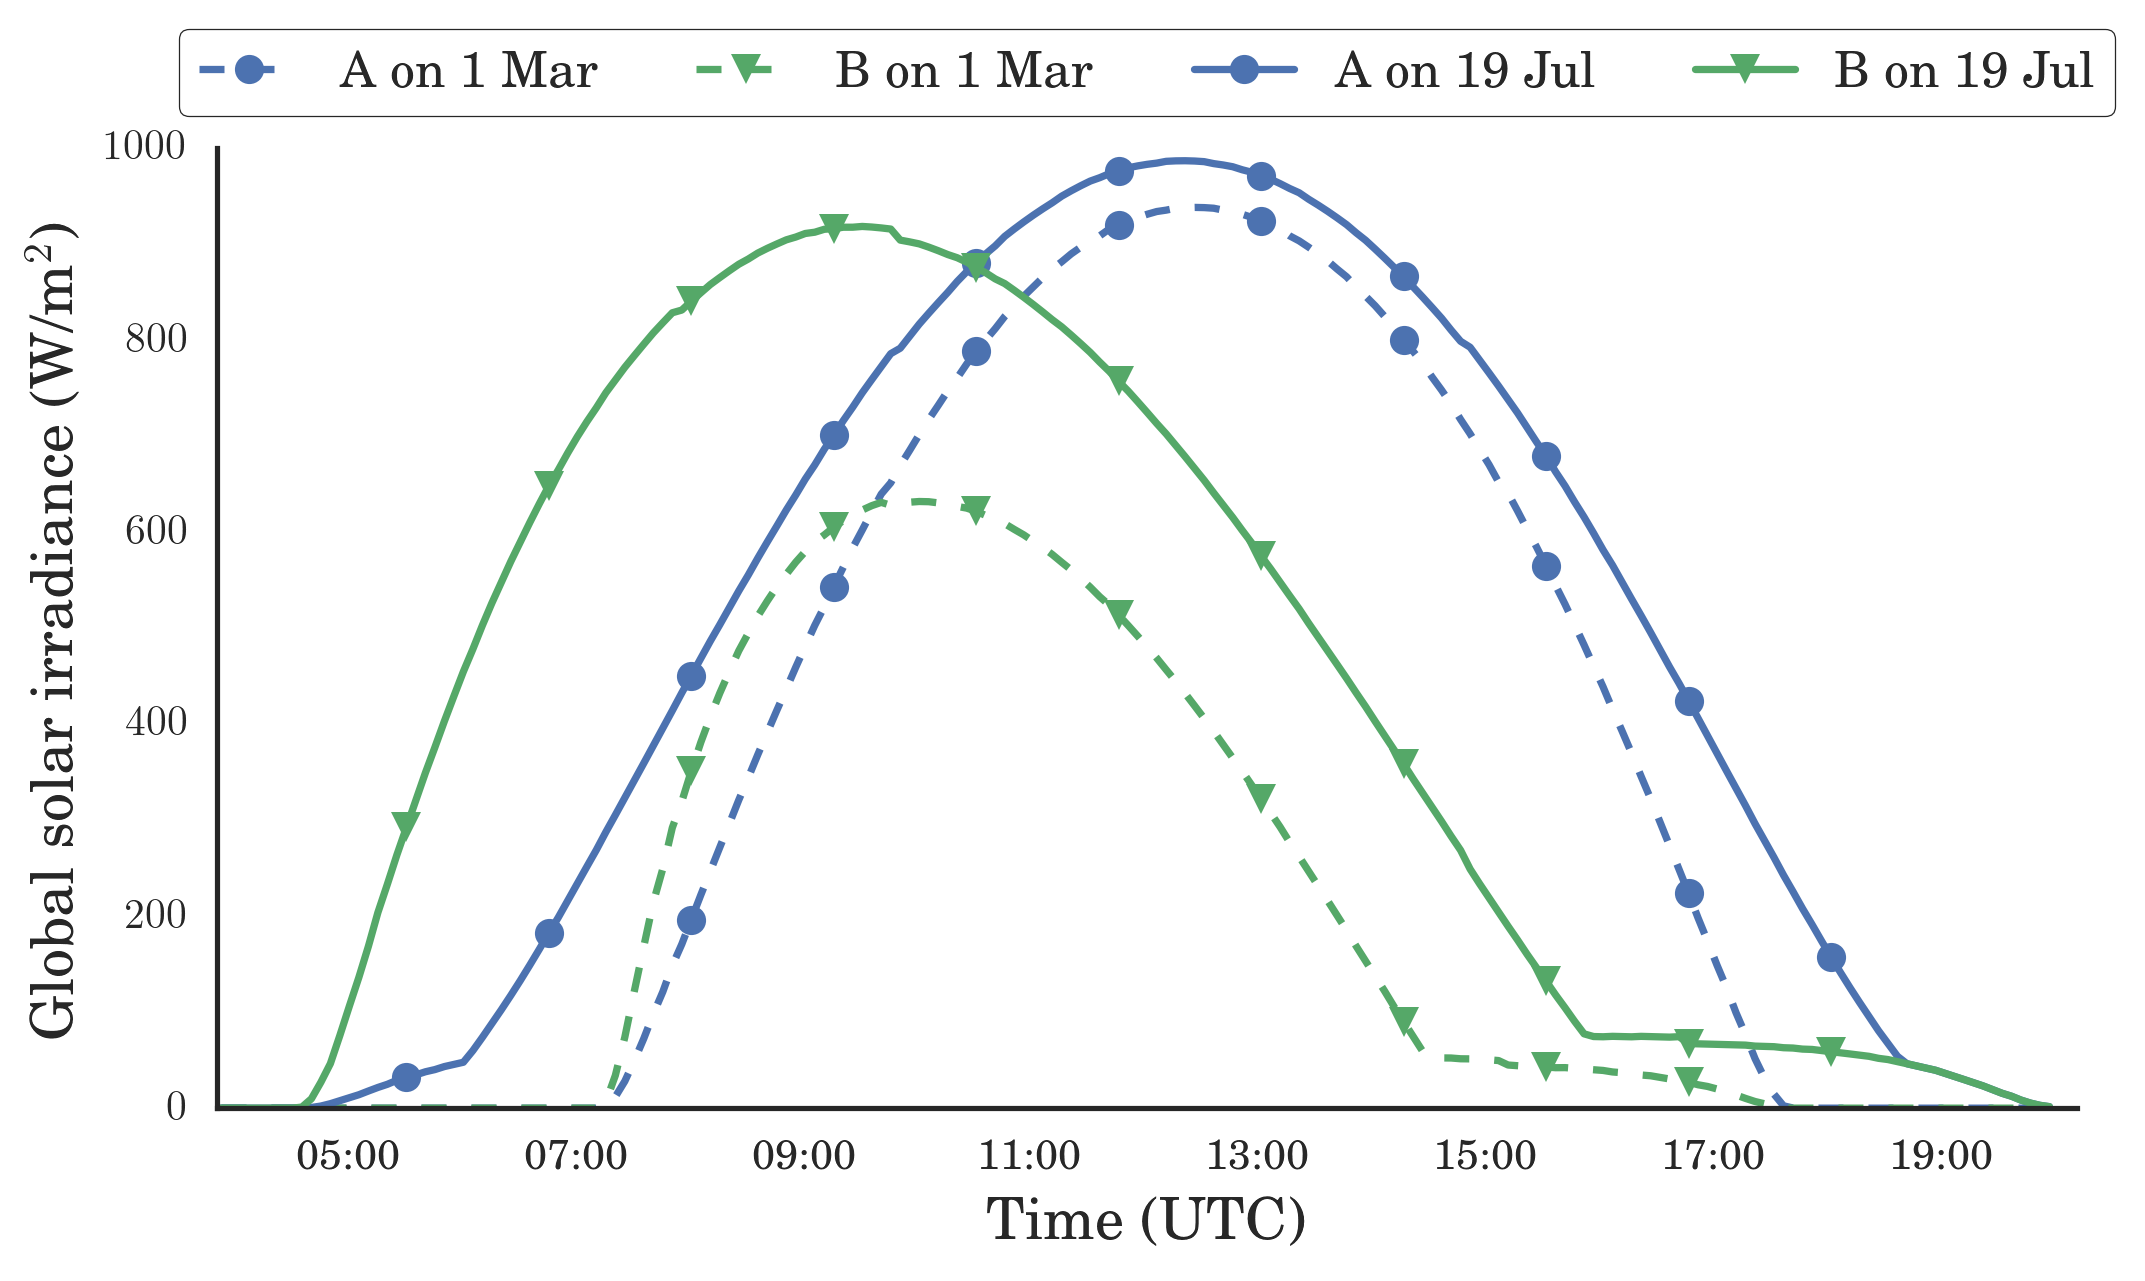
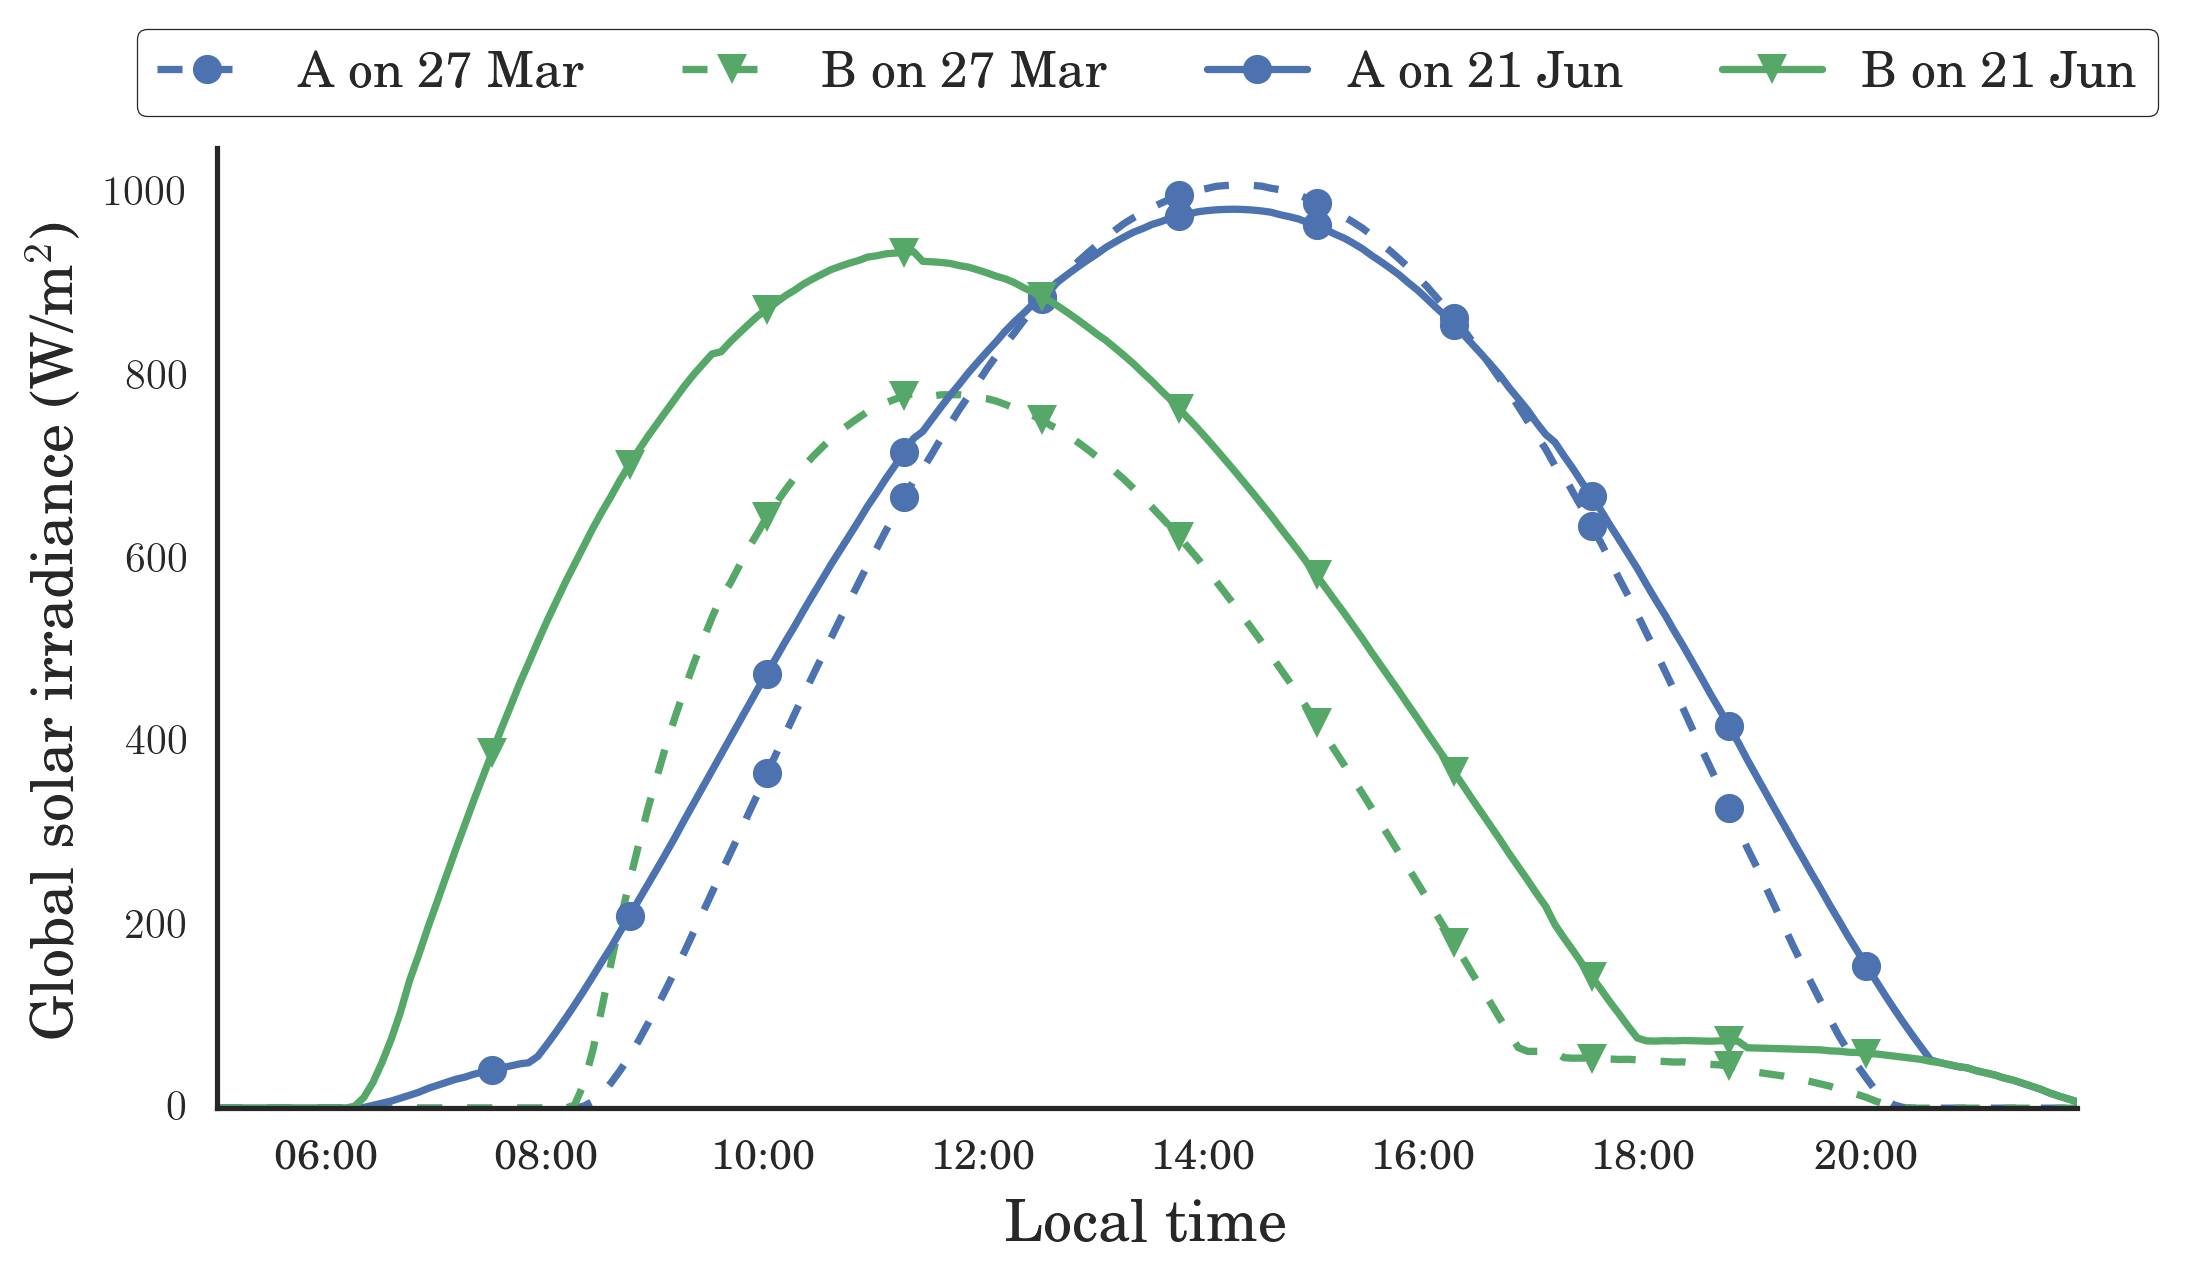
Offsetting the time zone from UTC

diff --git a/dailyplot.py b/dailyplot.py
@@ -35,6 +35,8 @@ settings = []
 
 place = (52.01, 4.36)
 
+tzoffset = datetime.timedelta(hours=2)
+
 settings.append({'Name' : 'Surface A',
 'Tilt' : 40.0,
 'Azimuth' : 180.0,
@@ -47,7 +49,7 @@ settings.append({'Name' : 'Surface B',
 
 #-- Which days
 #-- month, day format
-epochs = [[3, 1], [7, 19]]
+epochs = [[3, 27], [6, 21]]
 
 #-- Sampling interval
 interval = 5
@@ -110,6 +112,7 @@ import os
 #-- Fix LaTeX for macOS 10.12
 os.environ['PATH'] = os.environ['PATH'] + ':/Library/TeX/texbin'
 import matplotlib as mpl
+mpl.use('TkAgg')
 import matplotlib.pyplot as plt
 plt.rc('text', usetex=True)
 plt.rc('font', family='serif')
@@ -124,8 +127,8 @@ timestamp = []
 total_ir = []
 total_ir_h = []
 
-for v in res['Surface A']['0301']:
-        timestamp.append(v[0])
+for v in res['Surface A']['0327']:
+        timestamp.append(v[0] + tzoffset)
         total_ir.append(v[1])
         total_ir_h.append(v[2])
 
@@ -135,8 +138,8 @@ timestamp = []
 total_ir = []
 total_ir_h = []
 
-for v in res['Surface B']['0301']:
-        timestamp.append(v[0])
+for v in res['Surface B']['0327']:
+        timestamp.append(v[0] + tzoffset)
         total_ir.append(v[1])
         total_ir_h.append(v[2])
 
@@ -148,8 +151,8 @@ timestamp = []
 total_ir = []
 total_ir_h = []
 
-for v in res['Surface A']['0719']:
-        timestamp.append(v[0])
+for v in res['Surface A']['0621']:
+        timestamp.append(v[0] + tzoffset)
         total_ir.append(v[1])
         total_ir_h.append(v[2])
 
@@ -159,8 +162,8 @@ timestamp = []
 total_ir = []
 total_ir_h = []
 
-for v in res['Surface B']['0719']:
-        timestamp.append(v[0])
+for v in res['Surface B']['0621']:
+        timestamp.append(v[0] + tzoffset)
         total_ir.append(v[1])
         total_ir_h.append(v[2])
 
@@ -177,12 +180,13 @@ ax1.xaxis.set_major_formatter(xfmt)
 sns.despine(left=False, bottom=False)
 # ax1.tick_params(axis='x', which='major', bottom='on')
 # ax1.set_xlim([734869.16, 734869.84])
+ax1.set_ylim([0, 1050])
 
 # plt.title('Clear-sky global solar irradiance for Delft, the Netherlands', size=15)
-plt.xlabel('Time (UTC)', size=14)
+plt.xlabel('Local time', size=14)
 #plt.ylabel(u'Total solar irradiation (W/m²)', size=14)
 plt.ylabel(r'Global solar irradiance (W/m$^{2}$)', size=14)
-plt.legend(['A on 1 Mar', 'B on 1 Mar', 'A on 19 Jul', 'B on 19 Jul'], loc='upper center', bbox_to_anchor=(0.5, 1.15), fancybox=1, shadow=0, ncol=4, numpoints=1, prop={'size':12})
+plt.legend(['A on 27 Mar', 'B on 27 Mar', 'A on 21 Jun', 'B on 21 Jun'], loc='upper center', bbox_to_anchor=(0.5, 1.15), fancybox=1, shadow=0, ncol=4, numpoints=1, prop={'size':12})
 plt.savefig('dailyplot.png', bbox_inches='tight', dpi=300)
 plt.savefig('dailyplot.pdf', bbox_inches='tight')
 # plt.show()
